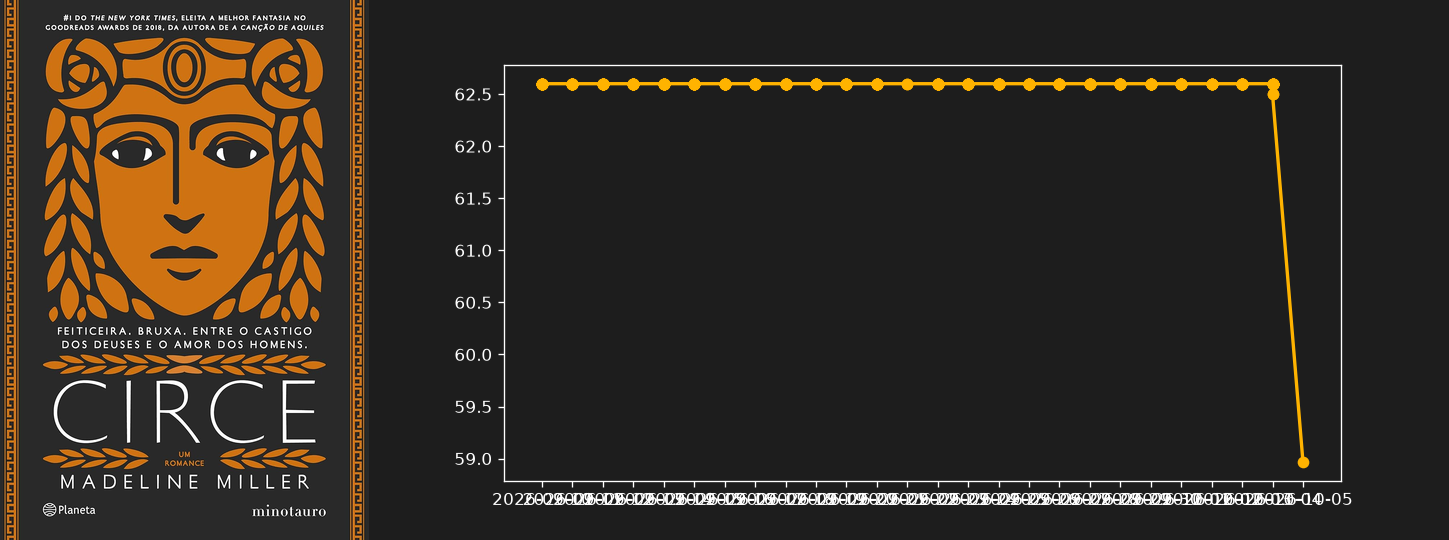
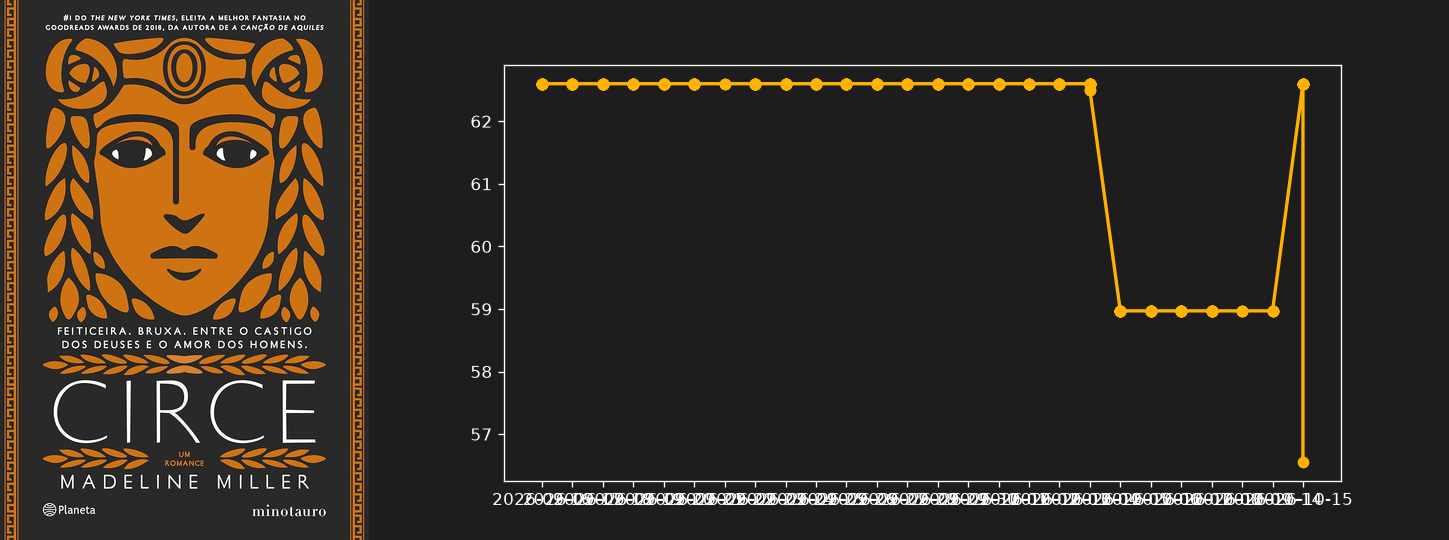
Atualizacao automatica: Novos precos e graficos

diff --git a/index.html b/index.html
@@ -88,7 +88,7 @@
             <div class="flex flex-col mt-auto mb-5">
                 <div class="flex items-baseline gap-2">
                     <span class="text-2xl font-bold text-white tracking-tight">R$ 43,19</span>
-                    <span class="text-sm text-gray-500 line-through">R$ 47,79</span>
+                    <span class="text-sm text-gray-500 line-through">R$ 47,78</span>
                 </div>
             </div>
             <a href="https://link.amazon/B07BZ9Phr" target="_blank" rel="nofollow noopener" class="w-full flex items-center justify-center gap-2 py-2.5 rounded-xl bg-white/5 hover:bg-bardo-gold hover:text-bardo-dark text-sm font-bold text-gray-200 transition-all">Comprar na Amazon</a>
@@ -108,7 +108,7 @@
             <div class="flex flex-col mt-auto mb-5">
                 <div class="flex items-baseline gap-2">
                     <span class="text-2xl font-bold text-white tracking-tight">R$ 41,90</span>
-                    <span class="text-sm text-gray-500 line-through">R$ 39,28</span>
+                    <span class="text-sm text-gray-500 line-through">R$ 39,29</span>
                 </div>
             </div>
             <a href="https://link.amazon/B0ahQKnZG" target="_blank" rel="nofollow noopener" class="w-full flex items-center justify-center gap-2 py-2.5 rounded-xl bg-white/5 hover:bg-bardo-gold hover:text-bardo-dark text-sm font-bold text-gray-200 transition-all">Comprar na Amazon</a>
@@ -148,7 +148,7 @@
             <div class="flex flex-col mt-auto mb-5">
                 <div class="flex items-baseline gap-2">
                     <span class="text-2xl font-bold text-white tracking-tight">R$ 132,90</span>
-                    <span class="text-sm text-gray-500 line-through">R$ 145,38</span>
+                    <span class="text-sm text-gray-500 line-through">R$ 145,35</span>
                 </div>
             </div>
             <a href="https://link.amazon/B04OFbHZF" target="_blank" rel="nofollow noopener" class="w-full flex items-center justify-center gap-2 py-2.5 rounded-xl bg-white/5 hover:bg-bardo-gold hover:text-bardo-dark text-sm font-bold text-gray-200 transition-all">Comprar na Amazon</a>
@@ -168,7 +168,7 @@
             <div class="flex flex-col mt-auto mb-5">
                 <div class="flex items-baseline gap-2">
                     <span class="text-2xl font-bold text-white tracking-tight">R$ 116,02</span>
-                    <span class="text-sm text-gray-500 line-through">R$ 129,74</span>
+                    <span class="text-sm text-gray-500 line-through">R$ 129,71</span>
                 </div>
             </div>
             <a href="https://link.amazon/B0bOFsgQ9" target="_blank" rel="nofollow noopener" class="w-full flex items-center justify-center gap-2 py-2.5 rounded-xl bg-white/5 hover:bg-bardo-gold hover:text-bardo-dark text-sm font-bold text-gray-200 transition-all">Comprar na Amazon</a>
@@ -188,7 +188,7 @@
             <div class="flex flex-col mt-auto mb-5">
                 <div class="flex items-baseline gap-2">
                     <span class="text-2xl font-bold text-white tracking-tight">R$ 196,84</span>
-                    <span class="text-sm text-gray-500 line-through">R$ 212,93</span>
+                    <span class="text-sm text-gray-500 line-through">R$ 212,89</span>
                 </div>
             </div>
             <a href="https://link.amazon/B0cOS4omj" target="_blank" rel="nofollow noopener" class="w-full flex items-center justify-center gap-2 py-2.5 rounded-xl bg-white/5 hover:bg-bardo-gold hover:text-bardo-dark text-sm font-bold text-gray-200 transition-all">Comprar na Amazon</a>
@@ -228,7 +228,7 @@
             <div class="flex flex-col mt-auto mb-5">
                 <div class="flex items-baseline gap-2">
                     <span class="text-2xl font-bold text-white tracking-tight">R$ 71,32</span>
-                    <span class="text-sm text-gray-500 line-through">R$ 81,00</span>
+                    <span class="text-sm text-gray-500 line-through">R$ 80,97</span>
                 </div>
             </div>
             <a href="https://link.amazon/B01CIGwaZ" target="_blank" rel="nofollow noopener" class="w-full flex items-center justify-center gap-2 py-2.5 rounded-xl bg-white/5 hover:bg-bardo-gold hover:text-bardo-dark text-sm font-bold text-gray-200 transition-all">Comprar na Amazon</a>
@@ -248,7 +248,7 @@
             <div class="flex flex-col mt-auto mb-5">
                 <div class="flex items-baseline gap-2">
                     <span class="text-2xl font-bold text-white tracking-tight">R$ 414,48</span>
-                    <span class="text-sm text-gray-500 line-through">R$ 405,56</span>
+                    <span class="text-sm text-gray-500 line-through">R$ 405,58</span>
                 </div>
             </div>
             <a href="https://link.amazon/B0czAwuOp" target="_blank" rel="nofollow noopener" class="w-full flex items-center justify-center gap-2 py-2.5 rounded-xl bg-white/5 hover:bg-bardo-gold hover:text-bardo-dark text-sm font-bold text-gray-200 transition-all">Comprar na Amazon</a>
@@ -288,7 +288,7 @@
             <div class="flex flex-col mt-auto mb-5">
                 <div class="flex items-baseline gap-2">
                     <span class="text-2xl font-bold text-white tracking-tight">R$ 53,88</span>
-                    <span class="text-sm text-gray-500 line-through">R$ 83,43</span>
+                    <span class="text-sm text-gray-500 line-through">R$ 83,36</span>
                 </div>
             </div>
             <a href="https://link.amazon/B0bJ5jTSU" target="_blank" rel="nofollow noopener" class="w-full flex items-center justify-center gap-2 py-2.5 rounded-xl bg-white/5 hover:bg-bardo-gold hover:text-bardo-dark text-sm font-bold text-gray-200 transition-all">Comprar na Amazon</a>
@@ -308,7 +308,7 @@
             <div class="flex flex-col mt-auto mb-5">
                 <div class="flex items-baseline gap-2">
                     <span class="text-2xl font-bold text-white tracking-tight">R$ 55,07</span>
-                    <span class="text-sm text-gray-500 line-through">R$ 53,54</span>
+                    <span class="text-sm text-gray-500 line-through">R$ 53,55</span>
                 </div>
             </div>
             <a href="https://link.amazon/B075ASsRo" target="_blank" rel="nofollow noopener" class="w-full flex items-center justify-center gap-2 py-2.5 rounded-xl bg-white/5 hover:bg-bardo-gold hover:text-bardo-dark text-sm font-bold text-gray-200 transition-all">Comprar na Amazon</a>
@@ -348,7 +348,7 @@
             <div class="flex flex-col mt-auto mb-5">
                 <div class="flex items-baseline gap-2">
                     <span class="text-2xl font-bold text-white tracking-tight">R$ 56,25</span>
-                    <span class="text-sm text-gray-500 line-through">R$ 59,29</span>
+                    <span class="text-sm text-gray-500 line-through">R$ 59,28</span>
                 </div>
             </div>
             <a href="https://link.amazon/B00tEF0jN" target="_blank" rel="nofollow noopener" class="w-full flex items-center justify-center gap-2 py-2.5 rounded-xl bg-white/5 hover:bg-bardo-gold hover:text-bardo-dark text-sm font-bold text-gray-200 transition-all">Comprar na Amazon</a>
@@ -368,7 +368,7 @@
             <div class="flex flex-col mt-auto mb-5">
                 <div class="flex items-baseline gap-2">
                     <span class="text-2xl font-bold text-white tracking-tight">R$ 85,47</span>
-                    <span class="text-sm text-gray-500 line-through">R$ 109,68</span>
+                    <span class="text-sm text-gray-500 line-through">R$ 109,62</span>
                 </div>
             </div>
             <a href="https://link.amazon/B0g8PJdyP" target="_blank" rel="nofollow noopener" class="w-full flex items-center justify-center gap-2 py-2.5 rounded-xl bg-white/5 hover:bg-bardo-gold hover:text-bardo-dark text-sm font-bold text-gray-200 transition-all">Comprar na Amazon</a>
@@ -388,7 +388,7 @@
             <div class="flex flex-col mt-auto mb-5">
                 <div class="flex items-baseline gap-2">
                     <span class="text-2xl font-bold text-white tracking-tight">R$ 138,00</span>
-                    <span class="text-sm text-gray-500 line-through">R$ 151,32</span>
+                    <span class="text-sm text-gray-500 line-through">R$ 151,28</span>
                 </div>
             </div>
             <a href="https://link.amazon/B09bDCyVl" target="_blank" rel="nofollow noopener" class="w-full flex items-center justify-center gap-2 py-2.5 rounded-xl bg-white/5 hover:bg-bardo-gold hover:text-bardo-dark text-sm font-bold text-gray-200 transition-all">Comprar na Amazon</a>
@@ -408,7 +408,7 @@
             <div class="flex flex-col mt-auto mb-5">
                 <div class="flex items-baseline gap-2">
                     <span class="text-2xl font-bold text-white tracking-tight">R$ 109,80</span>
-                    <span class="text-sm text-gray-500 line-through">R$ 128,53</span>
+                    <span class="text-sm text-gray-500 line-through">R$ 128,49</span>
                 </div>
             </div>
             <a href="https://link.amazon/B0cBFS3o1" target="_blank" rel="nofollow noopener" class="w-full flex items-center justify-center gap-2 py-2.5 rounded-xl bg-white/5 hover:bg-bardo-gold hover:text-bardo-dark text-sm font-bold text-gray-200 transition-all">Comprar na Amazon</a>
@@ -428,7 +428,7 @@
             <div class="flex flex-col mt-auto mb-5">
                 <div class="flex items-baseline gap-2">
                     <span class="text-2xl font-bold text-white tracking-tight">R$ 148,29</span>
-                    <span class="text-sm text-gray-500 line-through">R$ 143,66</span>
+                    <span class="text-sm text-gray-500 line-through">R$ 143,67</span>
                 </div>
             </div>
             <a href="https://link.amazon/B0f81O992" target="_blank" rel="nofollow noopener" class="w-full flex items-center justify-center gap-2 py-2.5 rounded-xl bg-white/5 hover:bg-bardo-gold hover:text-bardo-dark text-sm font-bold text-gray-200 transition-all">Comprar na Amazon</a>
@@ -488,7 +488,7 @@
             <div class="flex flex-col mt-auto mb-5">
                 <div class="flex items-baseline gap-2">
                     <span class="text-2xl font-bold text-white tracking-tight">R$ 34,01</span>
-                    <span class="text-sm text-gray-500 line-through">R$ 37,50</span>
+                    <span class="text-sm text-gray-500 line-through">R$ 37,49</span>
                 </div>
             </div>
             <a href="https://link.amazon/B0eRR4Vm5" target="_blank" rel="nofollow noopener" class="w-full flex items-center justify-center gap-2 py-2.5 rounded-xl bg-white/5 hover:bg-bardo-gold hover:text-bardo-dark text-sm font-bold text-gray-200 transition-all">Comprar na Amazon</a>
@@ -528,7 +528,7 @@
             <div class="flex flex-col mt-auto mb-5">
                 <div class="flex items-baseline gap-2">
                     <span class="text-2xl font-bold text-white tracking-tight">R$ 144,83</span>
-                    <span class="text-sm text-gray-500 line-through">R$ 163,90</span>
+                    <span class="text-sm text-gray-500 line-through">R$ 163,86</span>
                 </div>
             </div>
             <a href="https://link.amazon/B01Lo4CLZ" target="_blank" rel="nofollow noopener" class="w-full flex items-center justify-center gap-2 py-2.5 rounded-xl bg-white/5 hover:bg-bardo-gold hover:text-bardo-dark text-sm font-bold text-gray-200 transition-all">Comprar na Amazon</a>
@@ -588,7 +588,7 @@
             <div class="flex flex-col mt-auto mb-5">
                 <div class="flex items-baseline gap-2">
                     <span class="text-2xl font-bold text-white tracking-tight">R$ 285,85</span>
-                    <span class="text-sm text-gray-500 line-through">R$ 245,42</span>
+                    <span class="text-sm text-gray-500 line-through">R$ 245,52</span>
                 </div>
             </div>
             <a href="https://link.amazon/B046QvncM" target="_blank" rel="nofollow noopener" class="w-full flex items-center justify-center gap-2 py-2.5 rounded-xl bg-white/5 hover:bg-bardo-gold hover:text-bardo-dark text-sm font-bold text-gray-200 transition-all">Comprar na Amazon</a>
@@ -608,7 +608,7 @@
             <div class="flex flex-col mt-auto mb-5">
                 <div class="flex items-baseline gap-2">
                     <span class="text-2xl font-bold text-white tracking-tight">R$ 192,75</span>
-                    <span class="text-sm text-gray-500 line-through">R$ 182,35</span>
+                    <span class="text-sm text-gray-500 line-through">R$ 182,37</span>
                 </div>
             </div>
             <a href="https://link.amazon/B037mPoB1" target="_blank" rel="nofollow noopener" class="w-full flex items-center justify-center gap-2 py-2.5 rounded-xl bg-white/5 hover:bg-bardo-gold hover:text-bardo-dark text-sm font-bold text-gray-200 transition-all">Comprar na Amazon</a>
@@ -668,7 +668,7 @@
             <div class="flex flex-col mt-auto mb-5">
                 <div class="flex items-baseline gap-2">
                     <span class="text-2xl font-bold text-white tracking-tight">R$ 59,25</span>
-                    <span class="text-sm text-gray-500 line-through">R$ 52,28</span>
+                    <span class="text-sm text-gray-500 line-through">R$ 52,30</span>
                 </div>
             </div>
             <a href="https://link.amazon/B0gViTEpL" target="_blank" rel="nofollow noopener" class="w-full flex items-center justify-center gap-2 py-2.5 rounded-xl bg-white/5 hover:bg-bardo-gold hover:text-bardo-dark text-sm font-bold text-gray-200 transition-all">Comprar na Amazon</a>
@@ -688,7 +688,7 @@
             <div class="flex flex-col mt-auto mb-5">
                 <div class="flex items-baseline gap-2">
                     <span class="text-2xl font-bold text-white tracking-tight">R$ 57,13</span>
-                    <span class="text-sm text-gray-500 line-through">R$ 54,54</span>
+                    <span class="text-sm text-gray-500 line-through">R$ 54,55</span>
                 </div>
             </div>
             <a href="https://link.amazon/B08nADndv" target="_blank" rel="nofollow noopener" class="w-full flex items-center justify-center gap-2 py-2.5 rounded-xl bg-white/5 hover:bg-bardo-gold hover:text-bardo-dark text-sm font-bold text-gray-200 transition-all">Comprar na Amazon</a>
@@ -708,7 +708,7 @@
             <div class="flex flex-col mt-auto mb-5">
                 <div class="flex items-baseline gap-2">
                     <span class="text-2xl font-bold text-white tracking-tight">R$ 39,80</span>
-                    <span class="text-sm text-gray-500 line-through">R$ 37,93</span>
+                    <span class="text-sm text-gray-500 line-through">R$ 37,94</span>
                 </div>
             </div>
             <a href="https://link.amazon/B0jj9hCRe" target="_blank" rel="nofollow noopener" class="w-full flex items-center justify-center gap-2 py-2.5 rounded-xl bg-white/5 hover:bg-bardo-gold hover:text-bardo-dark text-sm font-bold text-gray-200 transition-all">Comprar na Amazon</a>
@@ -728,7 +728,7 @@
             <div class="flex flex-col mt-auto mb-5">
                 <div class="flex items-baseline gap-2">
                     <span class="text-2xl font-bold text-white tracking-tight">R$ 65,41</span>
-                    <span class="text-sm text-gray-500 line-through">R$ 68,48</span>
+                    <span class="text-sm text-gray-500 line-through">R$ 68,47</span>
                 </div>
             </div>
             <a href="https://link.amazon/B0gpt2mie" target="_blank" rel="nofollow noopener" class="w-full flex items-center justify-center gap-2 py-2.5 rounded-xl bg-white/5 hover:bg-bardo-gold hover:text-bardo-dark text-sm font-bold text-gray-200 transition-all">Comprar na Amazon</a>
@@ -748,7 +748,7 @@
             <div class="flex flex-col mt-auto mb-5">
                 <div class="flex items-baseline gap-2">
                     <span class="text-2xl font-bold text-white tracking-tight">R$ 60,09</span>
-                    <span class="text-sm text-gray-500 line-through">R$ 71,29</span>
+                    <span class="text-sm text-gray-500 line-through">R$ 71,26</span>
                 </div>
             </div>
             <a href="https://link.amazon/B053gl2cU" target="_blank" rel="nofollow noopener" class="w-full flex items-center justify-center gap-2 py-2.5 rounded-xl bg-white/5 hover:bg-bardo-gold hover:text-bardo-dark text-sm font-bold text-gray-200 transition-all">Comprar na Amazon</a>
@@ -768,7 +768,7 @@
             <div class="flex flex-col mt-auto mb-5">
                 <div class="flex items-baseline gap-2">
                     <span class="text-2xl font-bold text-white tracking-tight">R$ 66,12</span>
-                    <span class="text-sm text-gray-500 line-through">R$ 65,51</span>
+                    <span class="text-sm text-gray-500 line-through">R$ 65,52</span>
                 </div>
             </div>
             <a href="https://link.amazon/B09R1newk" target="_blank" rel="nofollow noopener" class="w-full flex items-center justify-center gap-2 py-2.5 rounded-xl bg-white/5 hover:bg-bardo-gold hover:text-bardo-dark text-sm font-bold text-gray-200 transition-all">Comprar na Amazon</a>
@@ -808,7 +808,7 @@
             <div class="flex flex-col mt-auto mb-5">
                 <div class="flex items-baseline gap-2">
                     <span class="text-2xl font-bold text-white tracking-tight">R$ 135,84</span>
-                    <span class="text-sm text-gray-500 line-through">R$ 148,79</span>
+                    <span class="text-sm text-gray-500 line-through">R$ 148,76</span>
                 </div>
             </div>
             <a href="https://link.amazon/B02R68ory" target="_blank" rel="nofollow noopener" class="w-full flex items-center justify-center gap-2 py-2.5 rounded-xl bg-white/5 hover:bg-bardo-gold hover:text-bardo-dark text-sm font-bold text-gray-200 transition-all">Comprar na Amazon</a>
@@ -828,7 +828,7 @@
             <div class="flex flex-col mt-auto mb-5">
                 <div class="flex items-baseline gap-2">
                     <span class="text-2xl font-bold text-white tracking-tight">R$ 52,37</span>
-                    <span class="text-sm text-gray-500 line-through">R$ 55,14</span>
+                    <span class="text-sm text-gray-500 line-through">R$ 55,13</span>
                 </div>
             </div>
             <a href="https://link.amazon/B0hzsQMzC" target="_blank" rel="nofollow noopener" class="w-full flex items-center justify-center gap-2 py-2.5 rounded-xl bg-white/5 hover:bg-bardo-gold hover:text-bardo-dark text-sm font-bold text-gray-200 transition-all">Comprar na Amazon</a>
@@ -848,7 +848,7 @@
             <div class="flex flex-col mt-auto mb-5">
                 <div class="flex items-baseline gap-2">
                     <span class="text-2xl font-bold text-white tracking-tight">R$ 473,33</span>
-                    <span class="text-sm text-gray-500 line-through">R$ 461,79</span>
+                    <span class="text-sm text-gray-500 line-through">R$ 461,82</span>
                 </div>
             </div>
             <a href="https://link.amazon/B04zvHdbV" target="_blank" rel="nofollow noopener" class="w-full flex items-center justify-center gap-2 py-2.5 rounded-xl bg-white/5 hover:bg-bardo-gold hover:text-bardo-dark text-sm font-bold text-gray-200 transition-all">Comprar na Amazon</a>
@@ -868,7 +868,7 @@
             <div class="flex flex-col mt-auto mb-5">
                 <div class="flex items-baseline gap-2">
                     <span class="text-2xl font-bold text-white tracking-tight">R$ 95,55</span>
-                    <span class="text-sm text-gray-500 line-through">R$ 90,89</span>
+                    <span class="text-sm text-gray-500 line-through">R$ 90,90</span>
                 </div>
             </div>
             <a href="https://link.amazon/B0fzjvtp7" target="_blank" rel="nofollow noopener" class="w-full flex items-center justify-center gap-2 py-2.5 rounded-xl bg-white/5 hover:bg-bardo-gold hover:text-bardo-dark text-sm font-bold text-gray-200 transition-all">Comprar na Amazon</a>
@@ -915,7 +915,7 @@
         </div>
     </article>
     <article class="relative flex flex-col bg-surface rounded-2xl border border-white/5 overflow-hidden hover:border-bardo-gold/40 transition-all duration-300 group shadow-lg">
-        
+        <div class="absolute top-3 left-3 z-10"><span class="px-2.5 py-1 text-[11px] font-bold uppercase tracking-wider text-emerald-400 bg-emerald-500/10 border border-emerald-500/20 rounded-full backdrop-blur-md shadow-lg">Abaixo da Média</span></div>
         <!-- Vitrine com Efeito Hover Swap -->
         <div class="relative h-64 w-full bg-gradient-to-b from-white/[0.03] to-transparent border-b border-white/5 overflow-hidden">
             <!-- Imagem 1: Capa (Soma ao Hover) -->
@@ -927,8 +927,8 @@
             <h3 class="text-base font-semibold text-gray-100 leading-snug line-clamp-2 mb-4 group-hover:text-bardo-gold transition-colors">Circe</h3>
             <div class="flex flex-col mt-auto mb-5">
                 <div class="flex items-baseline gap-2">
-                    <span class="text-2xl font-bold text-white tracking-tight">R$ 62,60</span>
-                    <span class="text-sm text-gray-500 line-through">R$ 61,91</span>
+                    <span class="text-2xl font-bold text-white tracking-tight">R$ 56,56</span>
+                    <span class="text-sm text-gray-500 line-through">R$ 61,90</span>
                 </div>
             </div>
             <a href="https://link.amazon/B0jllWIXN" target="_blank" rel="nofollow noopener" class="w-full flex items-center justify-center gap-2 py-2.5 rounded-xl bg-white/5 hover:bg-bardo-gold hover:text-bardo-dark text-sm font-bold text-gray-200 transition-all">Comprar na Amazon</a>
@@ -948,7 +948,7 @@
             <div class="flex flex-col mt-auto mb-5">
                 <div class="flex items-baseline gap-2">
                     <span class="text-2xl font-bold text-white tracking-tight">R$ 141,07</span>
-                    <span class="text-sm text-gray-500 line-through">R$ 158,17</span>
+                    <span class="text-sm text-gray-500 line-through">R$ 158,13</span>
                 </div>
             </div>
             <a href="https://link.amazon/B0fmYiyYt" target="_blank" rel="nofollow noopener" class="w-full flex items-center justify-center gap-2 py-2.5 rounded-xl bg-white/5 hover:bg-bardo-gold hover:text-bardo-dark text-sm font-bold text-gray-200 transition-all">Comprar na Amazon</a>
@@ -968,7 +968,7 @@
             <div class="flex flex-col mt-auto mb-5">
                 <div class="flex items-baseline gap-2">
                     <span class="text-2xl font-bold text-white tracking-tight">R$ 212,70</span>
-                    <span class="text-sm text-gray-500 line-through">R$ 208,90</span>
+                    <span class="text-sm text-gray-500 line-through">R$ 208,91</span>
                 </div>
             </div>
             <a href="https://link.amazon/B00nzuqe1" target="_blank" rel="nofollow noopener" class="w-full flex items-center justify-center gap-2 py-2.5 rounded-xl bg-white/5 hover:bg-bardo-gold hover:text-bardo-dark text-sm font-bold text-gray-200 transition-all">Comprar na Amazon</a>
@@ -988,7 +988,7 @@
             <div class="flex flex-col mt-auto mb-5">
                 <div class="flex items-baseline gap-2">
                     <span class="text-2xl font-bold text-white tracking-tight">R$ 324,86</span>
-                    <span class="text-sm text-gray-500 line-through">R$ 339,58</span>
+                    <span class="text-sm text-gray-500 line-through">R$ 339,54</span>
                 </div>
             </div>
             <a href="https://link.amazon/B02mXXqIa" target="_blank" rel="nofollow noopener" class="w-full flex items-center justify-center gap-2 py-2.5 rounded-xl bg-white/5 hover:bg-bardo-gold hover:text-bardo-dark text-sm font-bold text-gray-200 transition-all">Comprar na Amazon</a>
